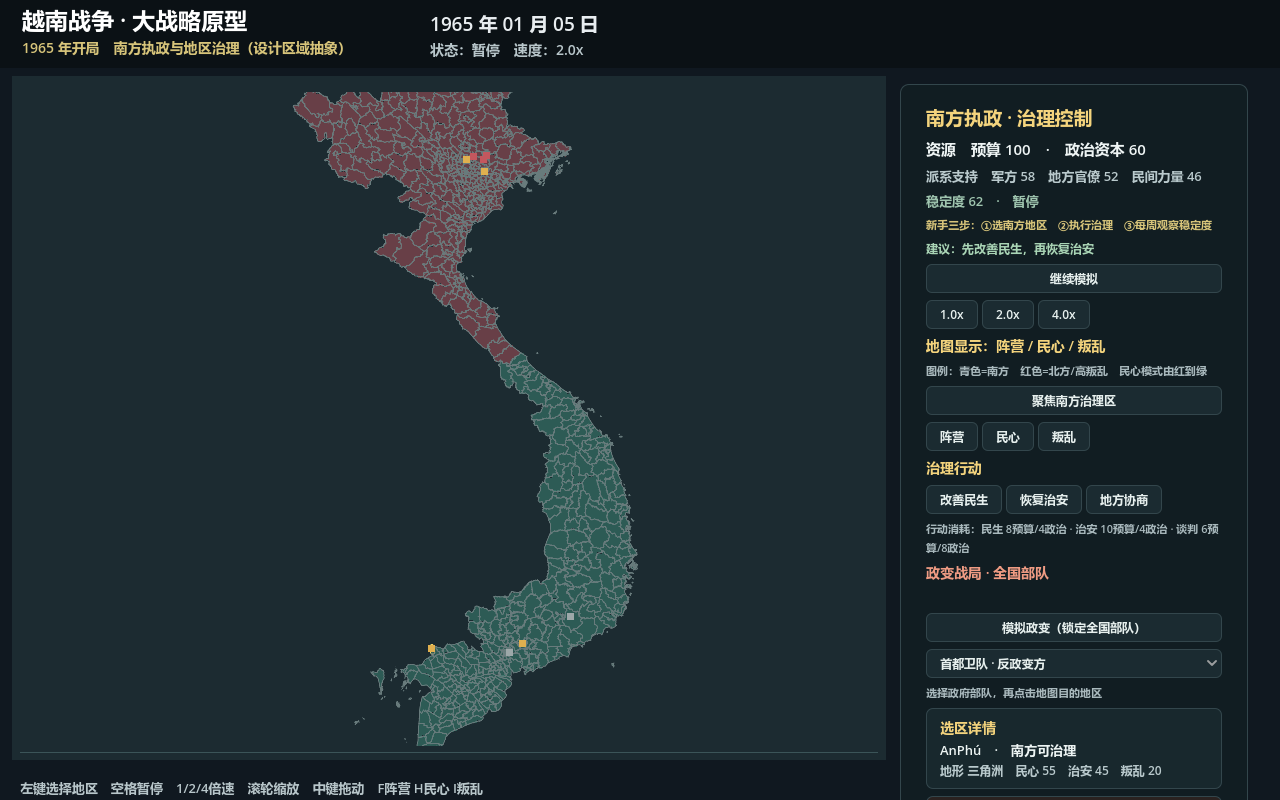
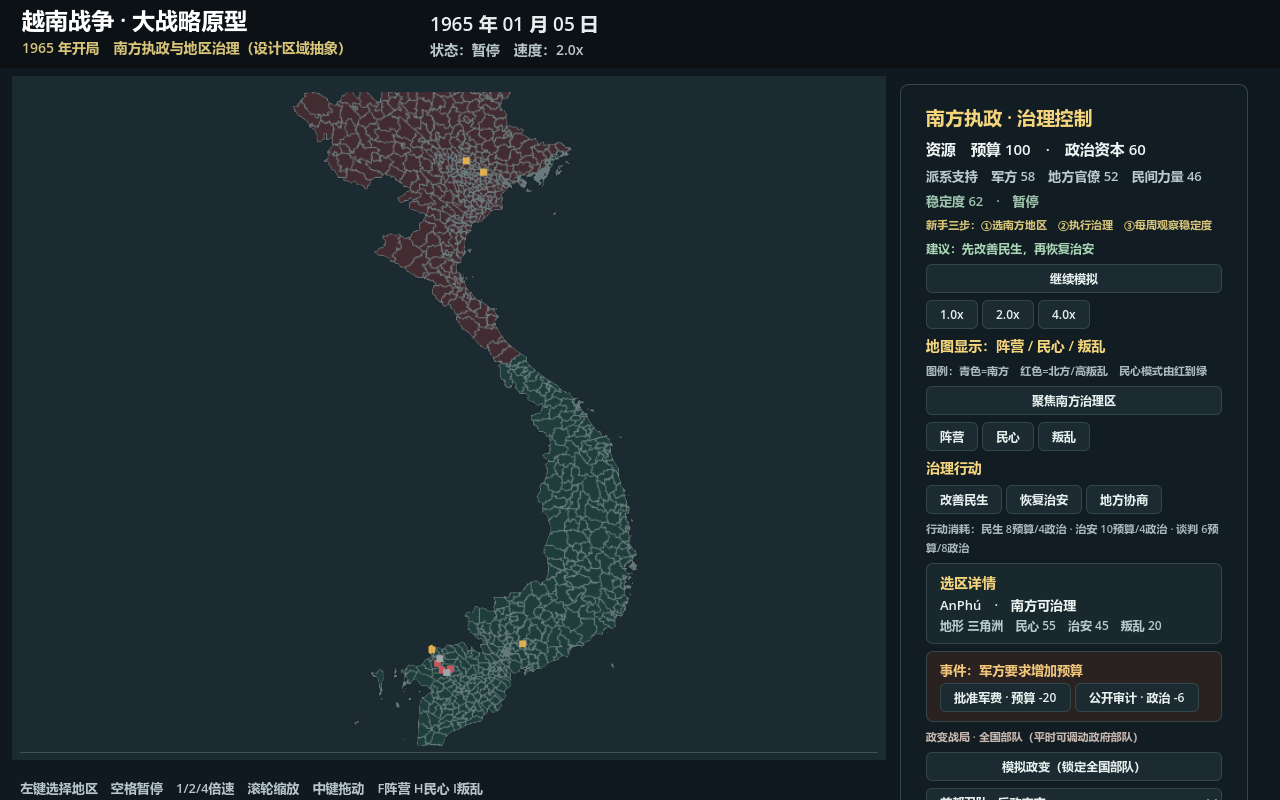
Optimize map rendering and add coup controls

Changed region(s): [[0.2188, 0.0938, 0.5, 0.9375], [0.7188, 0.6875, 0.9688, 1.0]]

diff --git a/docs/VERIFICATION.md b/docs/VERIFICATION.md
@@ -16,6 +16,6 @@
 
 导出：`powershell -ExecutionPolicy Bypass -File tools\build_windows.ps1` 生成 `builds\VietnamWar1965-governance.exe`；原有 `builds\VietnamWar1965-stage1.exe` 保留。
 
-性能验证：`--headless --path . --script res://tools/test_performance.gd` 在完整 710 地区上实测 `geometry_rebuild_ms=274.69`（加载/主动重建基线）、缓存静态重绘 `cached_draw_p95_ms=27.61`，缩放/平移变换场景 `transform_draw_p95_ms=28.28`。缓存把环线清理、投影、三角化预检和扫描填充段放到加载期；每日推进和普通输入不再重复这些工作，710 地区数据本身没有删减或降采样。
+性能验证：`--headless --path . --script res://tools/test_performance.gd` 在完整 710 地区上实测 `geometry_rebuild_ms=274.25`（主动重建成本）、缓存绘制命令 CPU 计时 P95 `26.50ms`，变换场景 CPU 计时 P95 `26.76ms`；这两个值不是旧版 FPS 对比。非 headless OpenGL Compatibility（NVIDIA GeForce RTX 3060 Laptop GPU）用 `tools/test_frame_performance.gd` 实测60个空闲帧 P50/P95 `16.61/17.51ms`，实际滚轮缩放与拖动路径60帧 P50/P95 `16.63/17.41ms`。地图现在只在加载、选择/行动或模式切换时更新 SubViewport 纹理，镜头变换只缩放/平移纹理；710 地区数据本身没有删减或降采样。
 
 上手与政变：右侧面板默认选中南方地区，提供三步引导、下一步建议、行动成本/效果和禁用原因；新增10支全国部队（政府5、政变3、中立2）。政变测试覆盖全国冻结、反政变方权限、政变方玩家越权拒绝、中立禁止、AI调集、反政变胜利解锁和政变方胜利失败。
